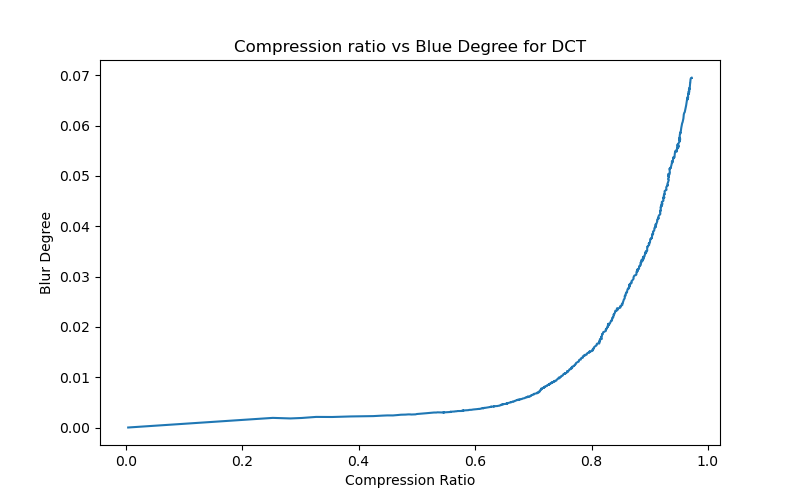
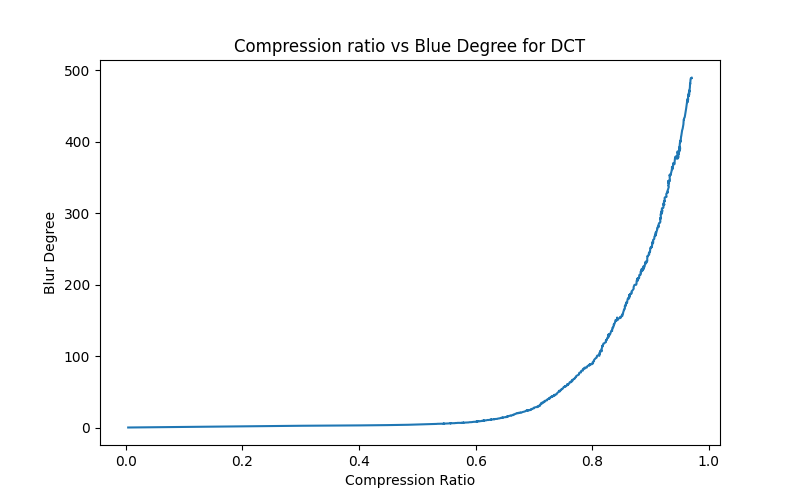
changed blur calculations

diff --git a/svd.py b/svd.py
@@ -110,13 +110,16 @@ def svd_driver(image_path,k_values):
         compress_svd(image_path, output_path_k, k)
         compression_ratio = os.path.getsize(output_path_k) / original_size
         compression_ratios.append(compression_ratio)
-        blur_degrees.append((calculate_blur_degree(output_path_k))/original_blur)
+        blur_rat = (calculate_blur_degree(output_path_k))
+        blur_degrees.append(blur_rat)
         os.rename(output_path_k, "./output_images/svd/" + output_path_k)
-        print(
-            f"Compression for {os.path.basename(image_path)} with k={k} complete. Compression ratio: {compression_ratio}. Output saved to {output_path_k}")
+        print(blur_rat)
+        #print(
+         #   f"Compression for {os.path.basename(image_path)} with k={k} complete. Compression ratio: {compression_ratio}. Output saved to {output_path_k}")
     return (compression_ratios,blur_degrees)
 
 
 
-process_images_in_folder("src_images",list(range(24))+list(range(24,2**10,25)))
+
+process_images_in_folder("src_images",list(range(24))+list(range(24,2**10,100)))
 

diff --git a/dct_rgb.py b/dct_rgb.py
@@ -91,7 +91,7 @@ def create_out_images(image_path, output_path, granularity):
         new_size = os.path.getsize(r)
         new_blur_degree = calculate_blur_degree(r)
         compression_ratios.append(new_size/original_size)
-        blur_degrees.append(new_blur_degree/original_blur)
+        blur_degrees.append(new_blur_degree)
     return (compression_ratios, blur_degrees)
 
 def folder_dct(src_folder,granularity):
@@ -109,7 +109,7 @@ def folder_dct(src_folder,granularity):
     fig1, ax1 = plt.subplots(figsize=(8, 5))
 
     ax1.plot(ratios/count, blurs/count)
-    ax1.set_title("Compression ratio vs Blue Degree for DCT")
+    ax1.set_title("Compression ratio vs Blur Degree for DCT")
     ax1.set_xlabel("Compression Ratio")
     ax1.set_ylabel("Blur Degree")
 

diff --git a/dct_grayscale.py b/dct_grayscale.py
@@ -155,7 +155,7 @@ def create_out_images(image_path, output_path, step_num):
         new_size = os.path.getsize(r)
         new_blur_degree = calculate_blur_degree(r)
         compression_ratios.append(new_size/original_size)
-        blur_degrees.append(new_blur_degree/original_blur)
+        blur_degrees.append(new_blur_degree)
     return (compression_ratios, blur_degrees)
 
 def folder_dct(src_folder,step_num):
@@ -174,7 +174,7 @@ def folder_dct(src_folder,step_num):
     fig1, ax1 = plt.subplots(figsize=(8, 5))
 
     ax1.plot(ratios/count, blurs/count)
-    ax1.set_title("Compression ratio vs Blue Degree for DCT")
+    ax1.set_title("Compression ratio vs Blur Degree for DCT")
     ax1.set_xlabel("Compression Ratio")
     ax1.set_ylabel("Blur Degree")
 
